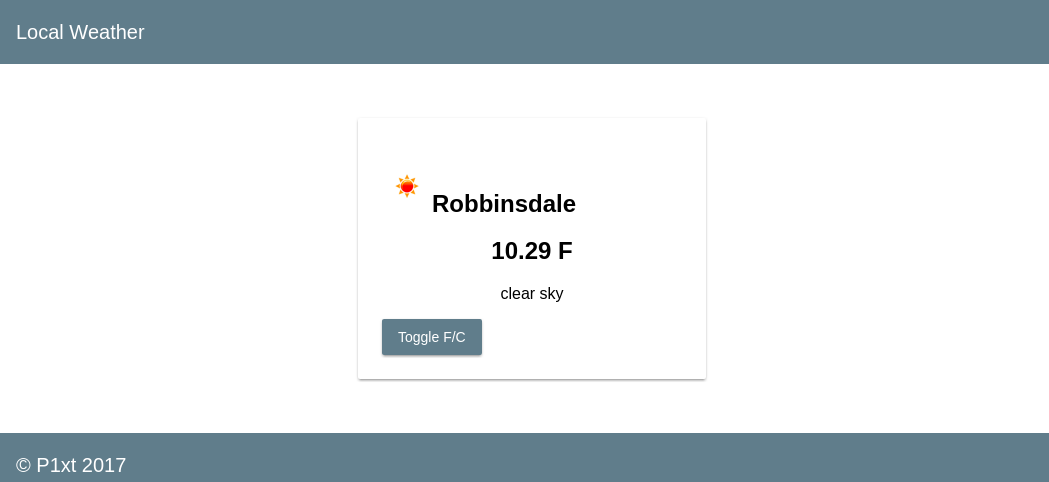
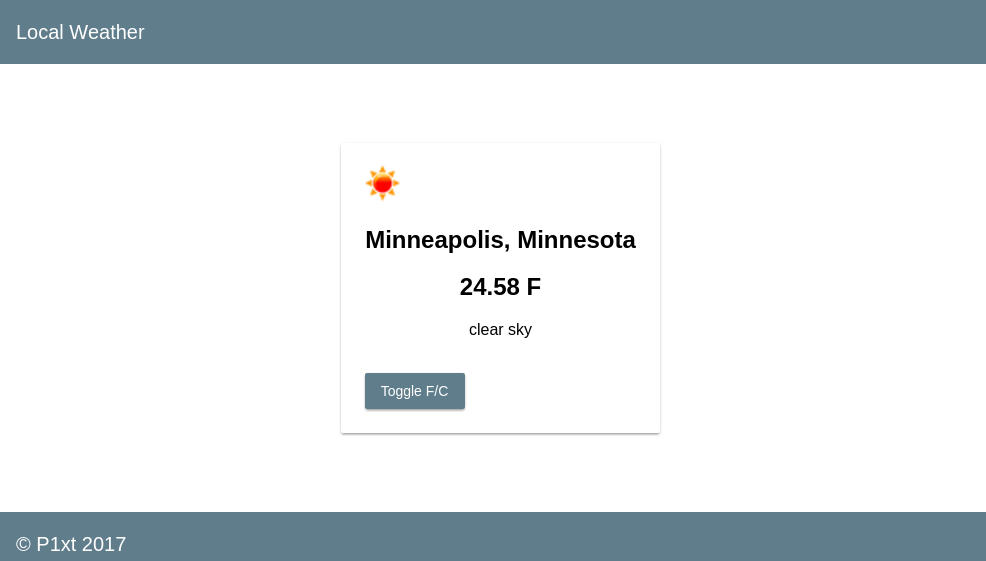
local weather - added fallback location
If the ip lookup doesn't provide a location, pull the location from the weather API.

diff --git a/frontend/local-weather/src/app/components/local-weather/local-weather.component.ts b/frontend/local-weather/src/app/components/local-weather/local-weather.component.ts
@@ -30,6 +30,7 @@ export class LocalWeatherComponent implements OnInit {
                    .subscribe((w) => this.getW(w))
   }
   getW(w) {
+    if (this.city === ', ') this.city = w.name;
     this.temp_f = +w.main.temp;
     this.temp = this.temp_f;
     this.temp_c = Math.round((this.temp_f-32) * (5/9));

diff --git a/frontend/local-weather/src/app/services/geolocation.service.ts b/frontend/local-weather/src/app/services/geolocation.service.ts
@@ -7,7 +7,6 @@ export class GeolocationService {
 
   constructor(private jsonp: Jsonp) { }
 
-
   getLocation = (position) => {
     let apiUrl: string = 'http://freegeoip.net/json';
     let params = new URLSearchParams();
